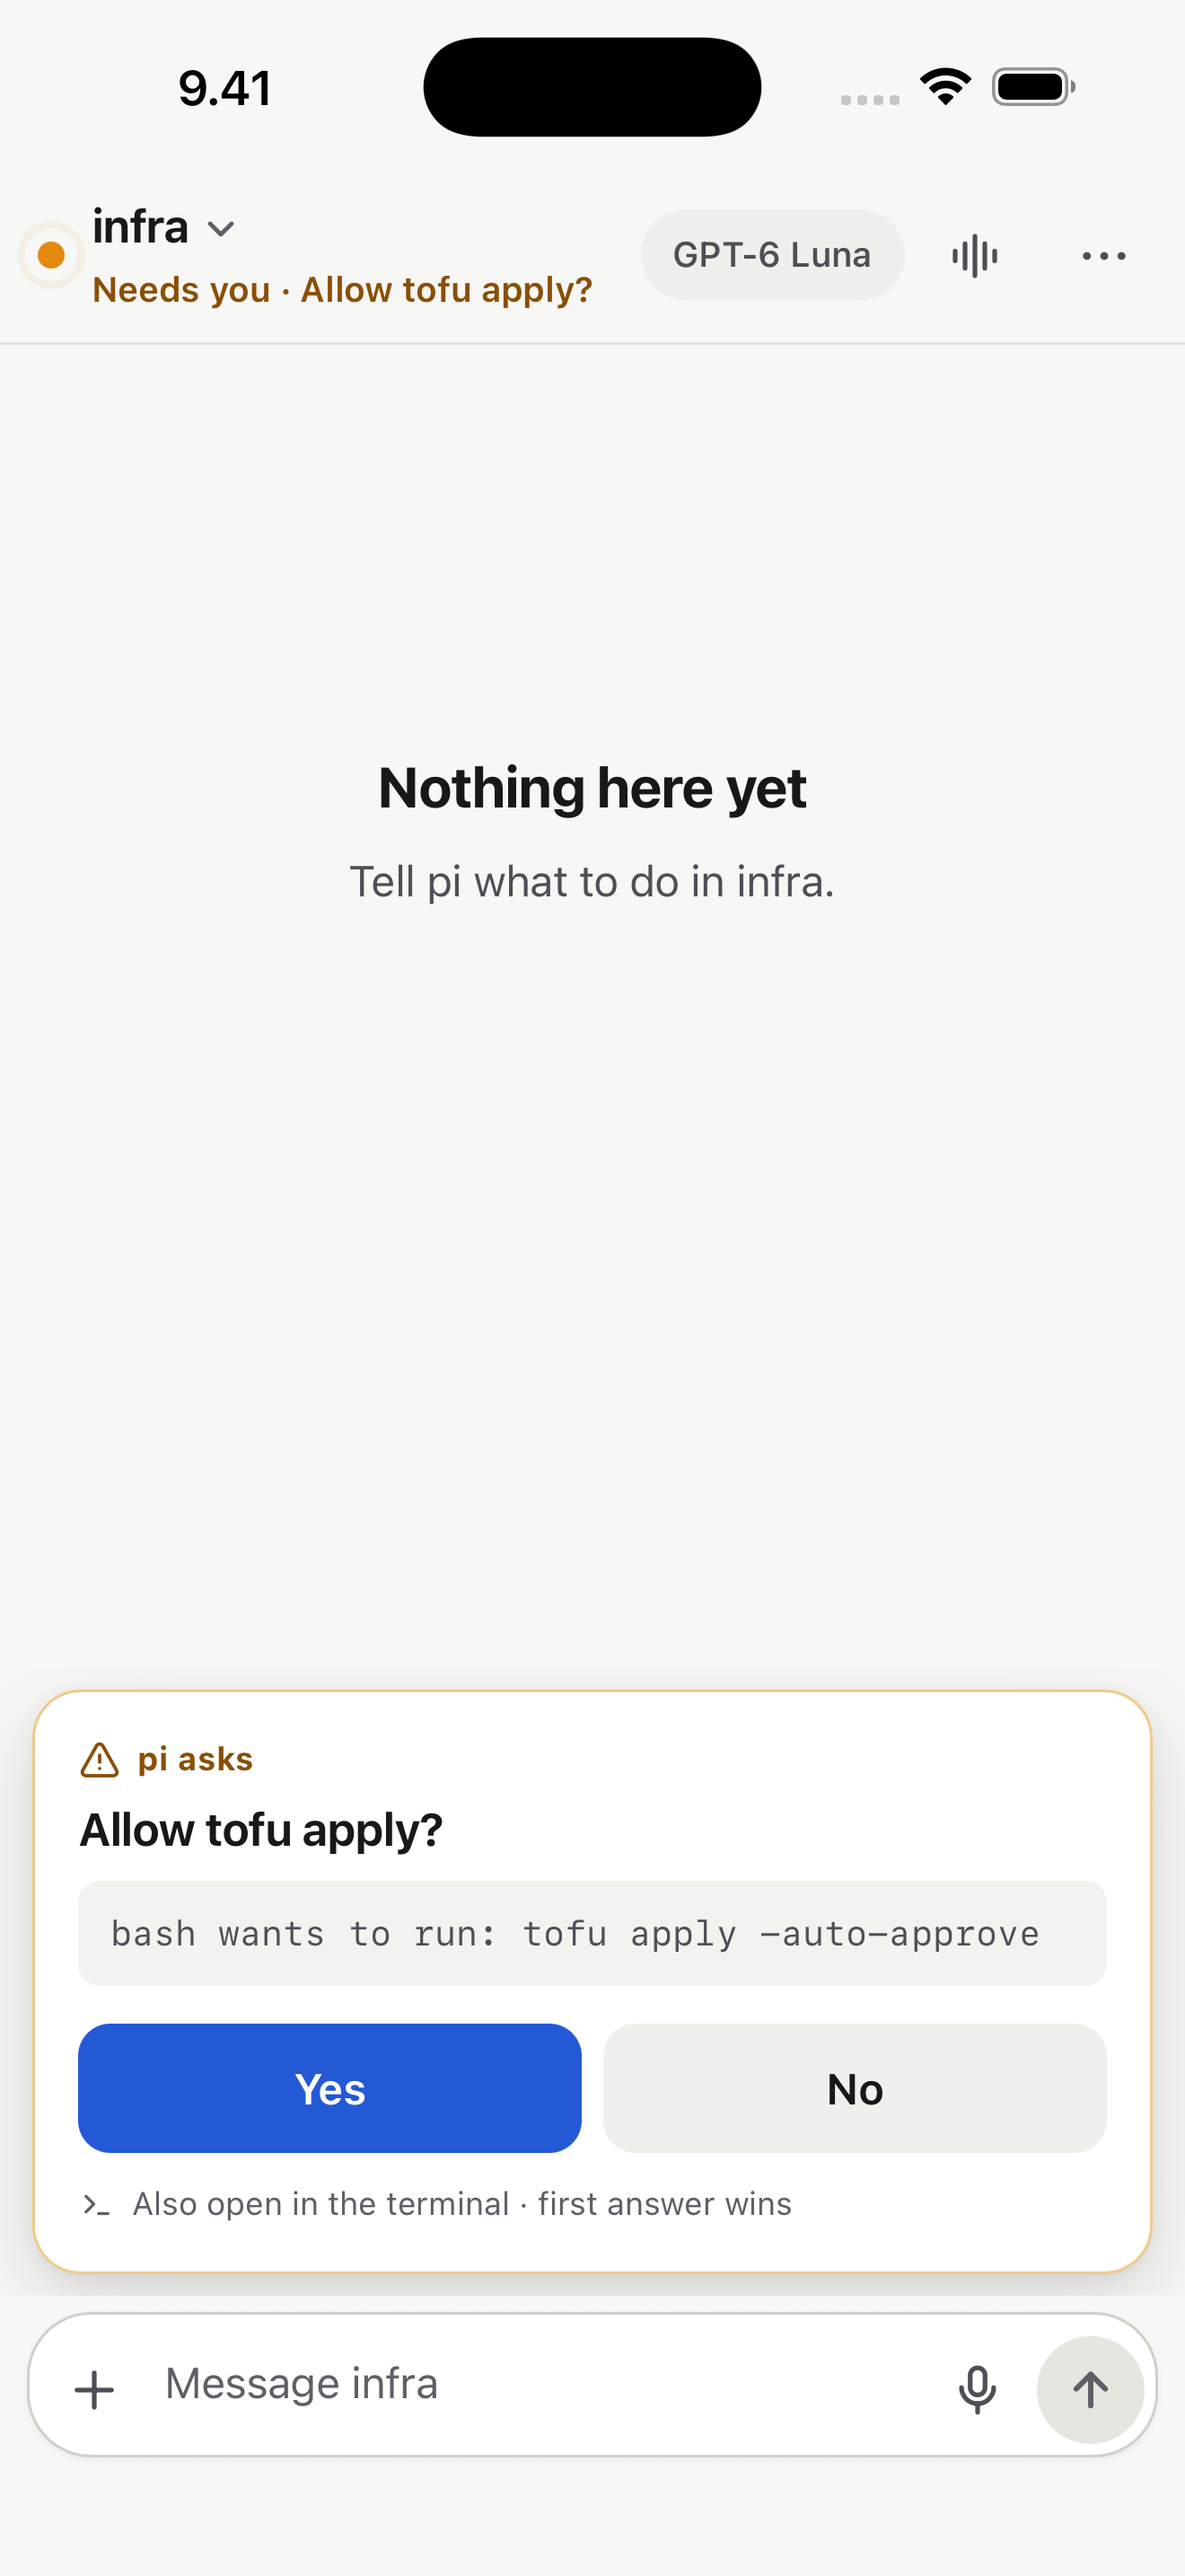
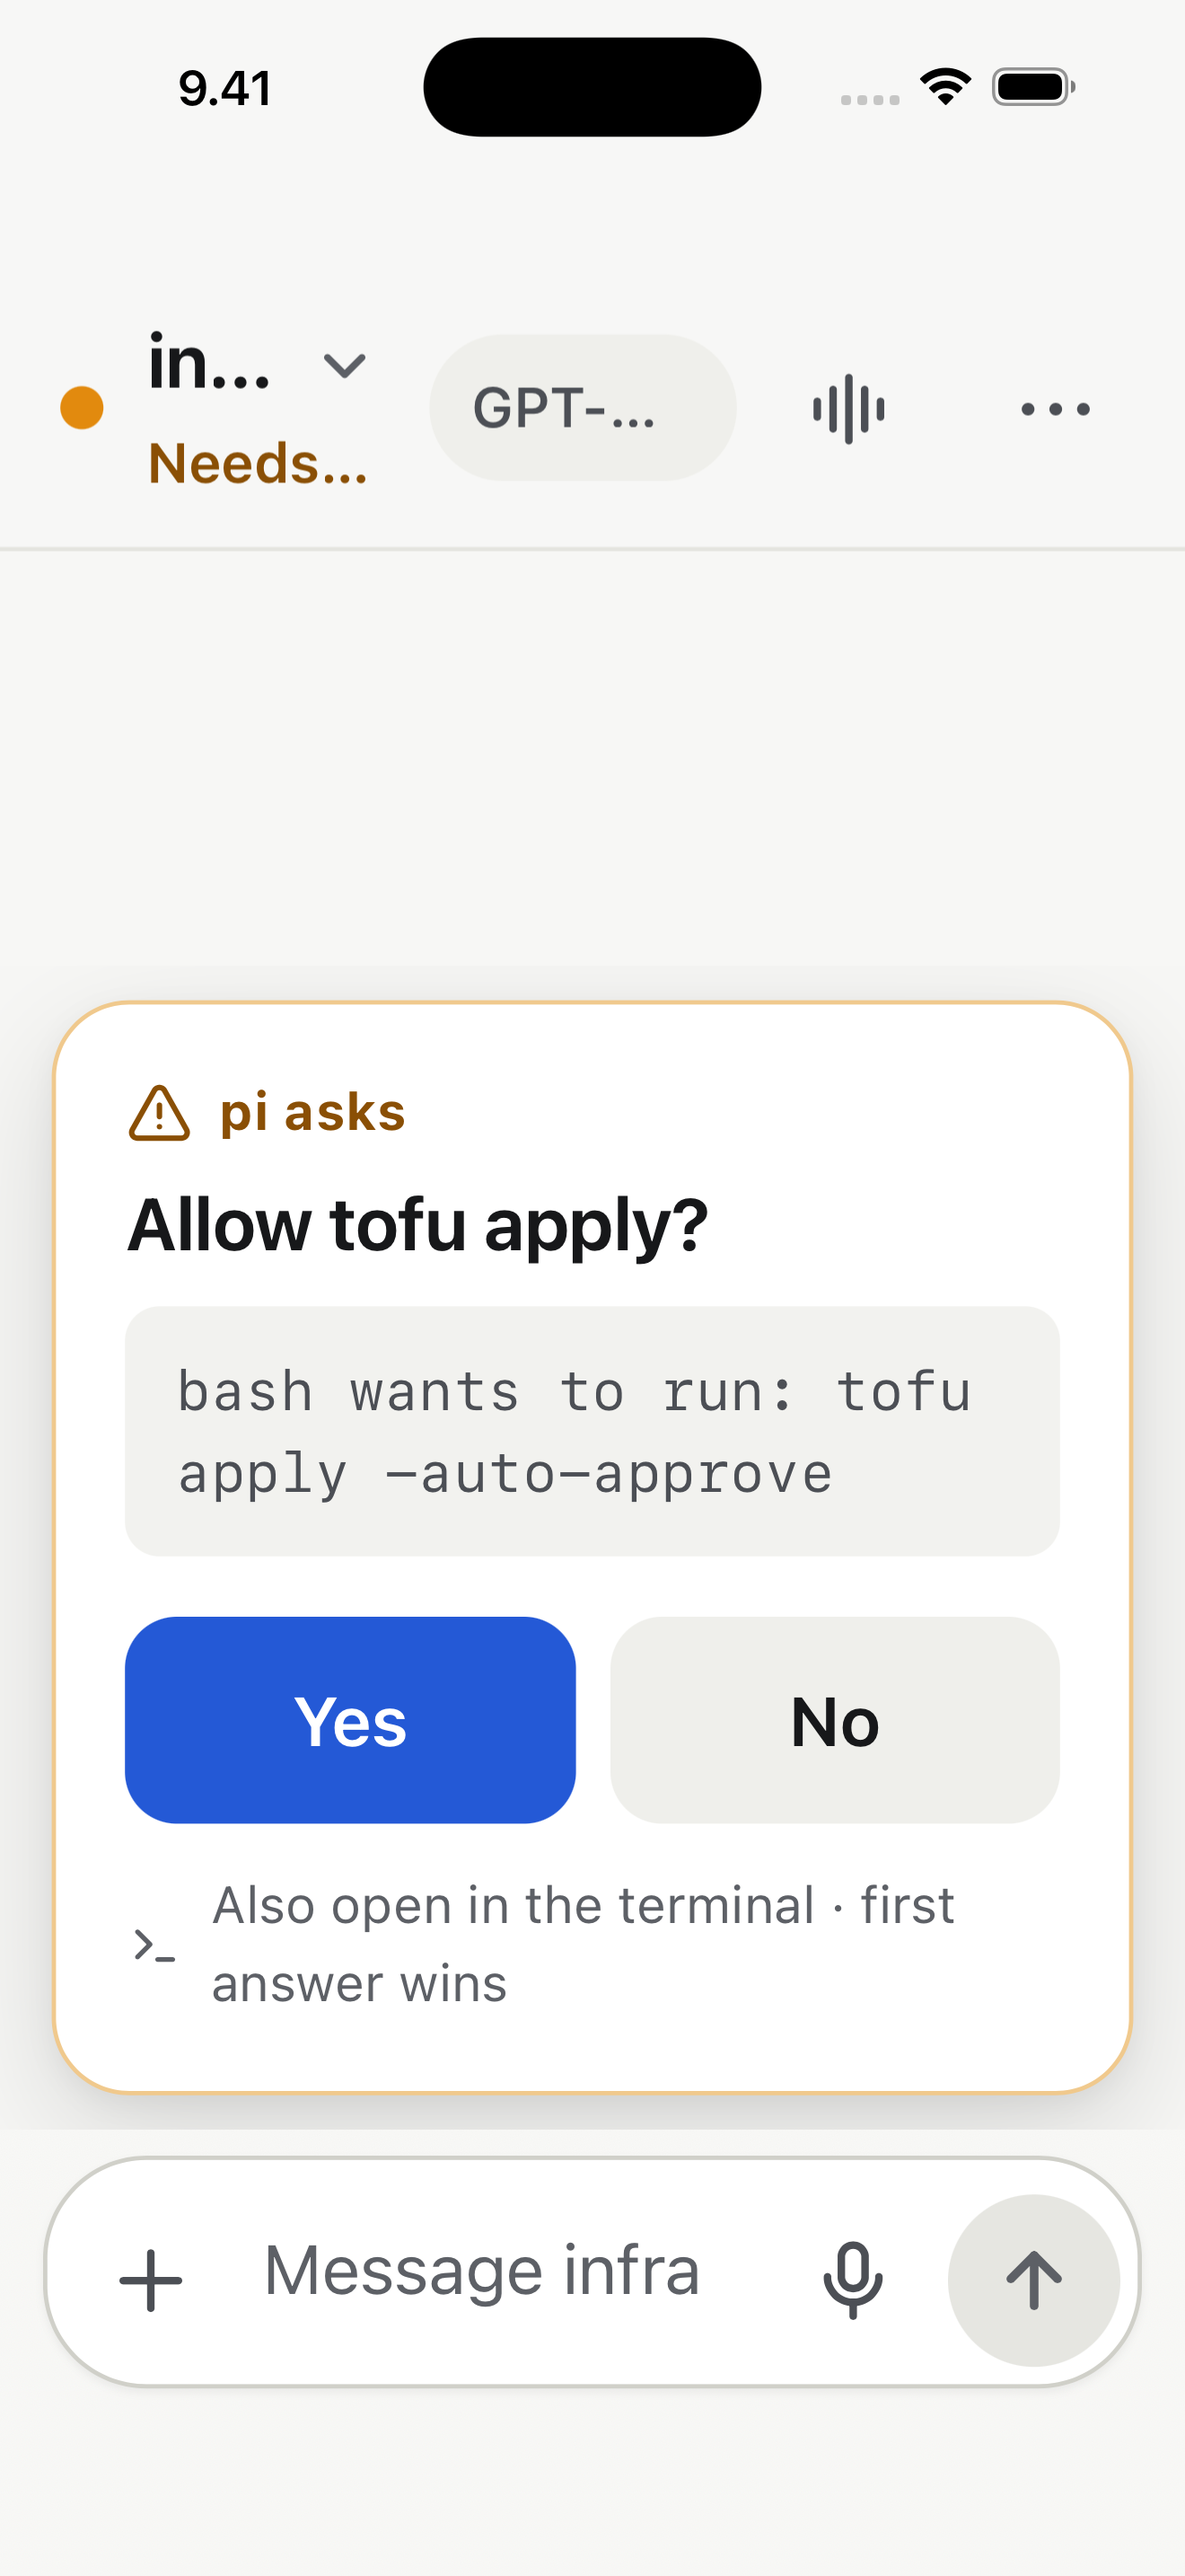
iOS: the web UI follows Dynamic Type
The page's CSS is in px, so large text sizes did nothing in the app.
WKWebView.pageZoom scales but keeps a device-width layout viewport on iOS,
so the page overflowed sideways and 100dvh ran off screen. The shell now
narrows the page's viewport to screen width / zoom and scales it back up
(1.1 to 1.6 by text size, live on change): the page reflows and pinch
zoom keeps working.

diff --git a/native/ios/Pi/Shell/WebShell.swift b/native/ios/Pi/Shell/WebShell.swift
@@ -32,6 +32,11 @@ struct WebShell: UIViewRepresentable {
         web.scrollView.alwaysBounceVertical = false
         web.scrollView.contentInsetAdjustmentBehavior = .never // the page uses viewport-fit=cover
         web.scrollView.keyboardDismissMode = .interactive
+        // Dynamic Type for the page (its CSS is px). `pageZoom` scales but keeps a device-width layout viewport on
+        // iOS (the page then overflows sideways and 100dvh runs off screen), so the viewport is narrowed instead.
+        context.coordinator.textSize = NotificationCenter.default.addObserver(forName: UIContentSizeCategory.didChangeNotification, object: nil, queue: .main) { [weak web] _ in
+            MainActor.assumeIsolated { _ = web?.evaluateJavaScript(WebShell.zoomScript(WebShell.currentZoom)) }
+        }
         #if DEBUG
         web.isInspectable = true
         #endif
@@ -45,6 +50,34 @@ struct WebShell: UIViewRepresentable {
         }
         context.coordinator.load(web)
         return web
+    }
+
+    static var currentZoom: CGFloat { pageZoom(for: UIApplication.shared.preferredContentSizeCategory) }
+
+    /// Narrows the layout viewport to screen width / zoom and scales it back up: text and controls grow, the page
+    /// reflows, `dvh` follows. Pinch zoom stays. Zoom 1 restores the page's own viewport.
+    static func zoomScript(_ zoom: CGFloat) -> String {
+        """
+        (function (z) {
+          var m = document.querySelector('meta[name=viewport]');
+          if (!m) return;
+          if (!m.dataset.orig) m.dataset.orig = m.content;
+          m.content = z === 1 ? m.dataset.orig : 'width=' + Math.round(screen.width / z) + ', initial-scale=' + z + ', viewport-fit=cover, interactive-widget=resizes-content';
+        })(\(zoom));
+        """
+    }
+
+    /// Page zoom per text size: the default size is 1, accessibility sizes cap at 1.6 (CSS width stays >= ~245 px).
+    static func pageZoom(for size: UIContentSizeCategory) -> CGFloat {
+        switch size {
+        case .extraSmall, .small, .medium, .large: 1.0
+        case .extraLarge: 1.1
+        case .extraExtraLarge: 1.2
+        case .extraExtraExtraLarge: 1.3
+        case .accessibilityMedium: 1.45
+        case .accessibilityLarge, .accessibilityExtraLarge, .accessibilityExtraExtraLarge, .accessibilityExtraExtraExtraLarge: 1.6
+        default: 1.0
+        }
     }
 
     func updateUIView(_ web: WKWebView, context: Context) {
@@ -67,6 +100,8 @@ struct WebShell: UIViewRepresentable {
         var reloadToken: Int
         /// Observer for `.piVoiceClosed` (BRIDGE.md `voiceClosed()`).
         var voiceClosed: NSObjectProtocol?
+        /// Observer for text size changes (page zoom).
+        var textSize: NSObjectProtocol?
 
         init(_ parent: WebShell) {
             self.parent = parent
@@ -85,6 +120,7 @@ struct WebShell: UIViewRepresentable {
             ucc.removeAllUserScripts()
             ucc.addUserScript(WKUserScript(source: NativeBridge.setupScript(machines: parent.model.machines, prefs: parent.model.prefs.all), injectionTime: .atDocumentStart, forMainFrameOnly: true))
             ucc.addUserScript(WKUserScript(source: NativeBridge.feelScript, injectionTime: .atDocumentEnd, forMainFrameOnly: true))
+            ucc.addUserScript(WKUserScript(source: WebShell.zoomScript(WebShell.currentZoom), injectionTime: .atDocumentEnd, forMainFrameOnly: true))
             web.load(URLRequest(url: url, cachePolicy: .reloadRevalidatingCacheData, timeoutInterval: 15))
         }
 

diff --git a/native/ios/PiTests/BridgeTests.swift b/native/ios/PiTests/BridgeTests.swift
@@ -131,6 +131,15 @@ final class BridgeTests: XCTestCase {
         XCTAssertEqual(store.load().first(where: \.primary)?.id, "b")
     }
 
+    func testTextSizeMapsToPageZoom() {
+        XCTAssertEqual(WebShell.pageZoom(for: .large), 1.0)
+        XCTAssertEqual(WebShell.pageZoom(for: .extraLarge), 1.1)
+        XCTAssertEqual(WebShell.pageZoom(for: .accessibilityMedium), 1.45)
+        XCTAssertEqual(WebShell.pageZoom(for: .accessibilityExtraExtraExtraLarge), 1.6, "capped")
+        XCTAssertEqual(WebShell.pageZoom(for: .small), 1.0)
+        XCTAssertTrue(WebShell.zoomScript(1.6).contains("(1.6)"))
+    }
+
     func testFeelScriptKeepsPinchZoom() {
         XCTAssertFalse(NativeBridge.feelScript.contains("user-scalable"))
         XCTAssertFalse(NativeBridge.feelScript.contains("maximum-scale"))
